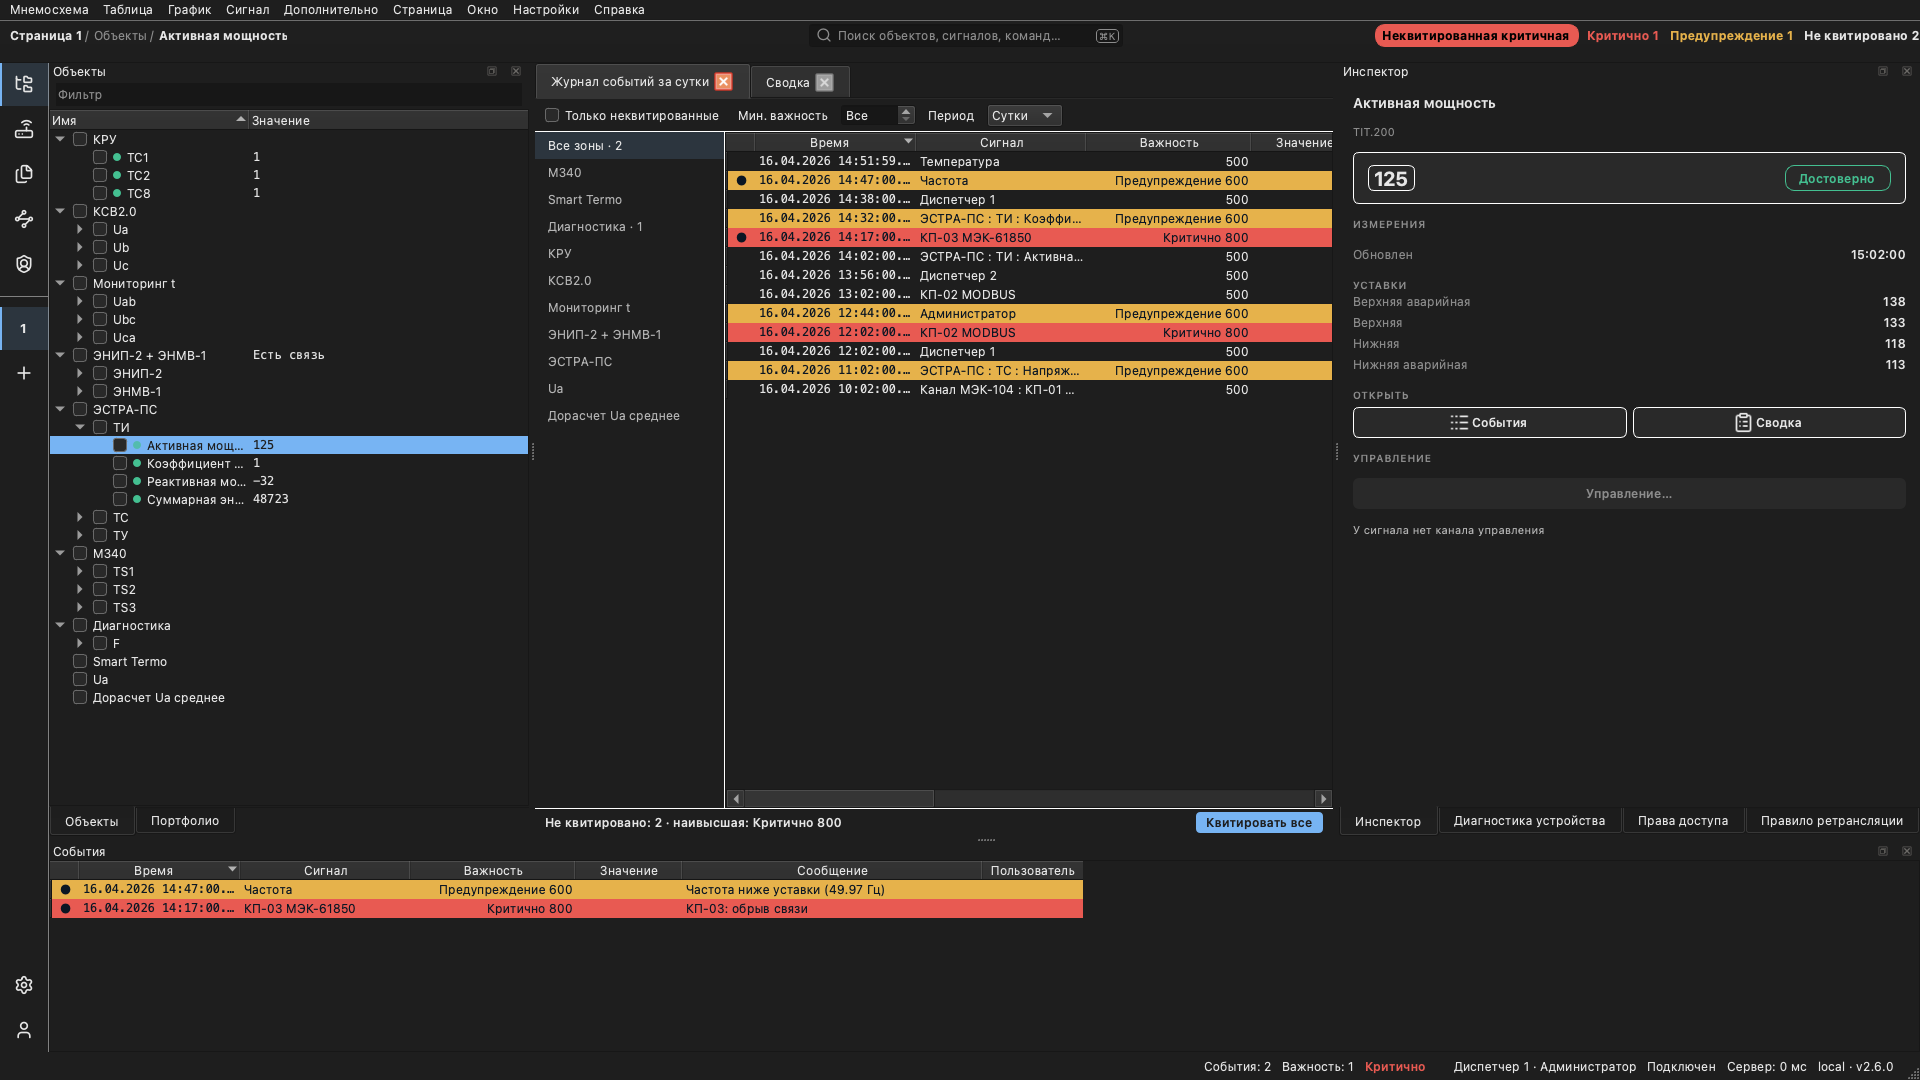
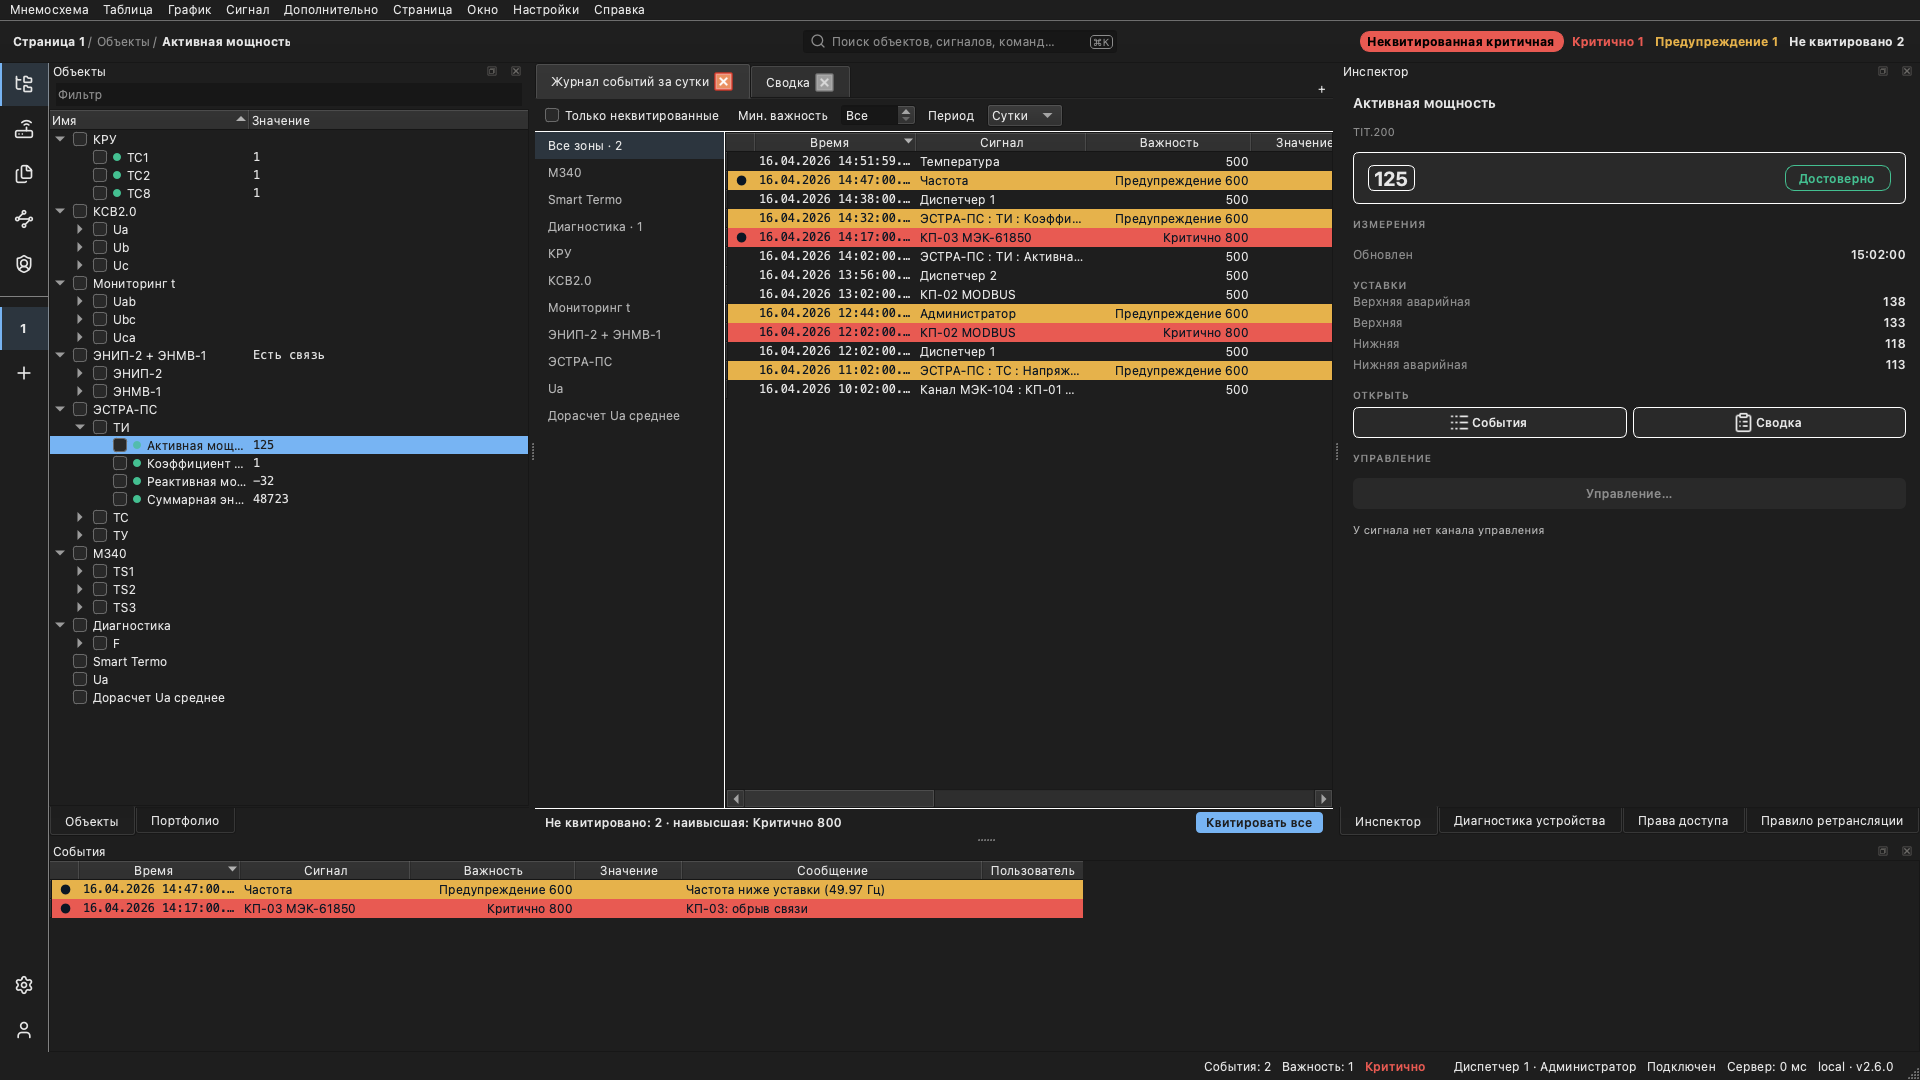
client: give the context bar a horizontal inset, so its text is off the window edge
Reported from the running client: the top bar looks like it has no left margin
and the text is hard to read. It did not have one.

All three slots were built `setContentsMargins(0, slot_padding, 0, slot_padding)`
-- padded vertically by cf2aca0ea, zeroed horizontally -- and a QToolBar
contributes only its style frame there. Measured on the 1920px
workbench-window.png render: the breadcrumb's first glyph began at x=4 and the
last alarm tile ended 7px from the other edge. This was the one row in the
window with no inset of its own; the menu bar gets one from its style (x=11)
and the status strip from its cells' margins (x=48). operator-shell.html gives
`.topbar` a `padding: 0 12px` for the same reason.

The inset comes from PM_LayoutLeftMargin / PM_LayoutRightMargin rather than a
literal, so it tracks DPI and the OS text-size setting, the same way the
vertical padding beside it takes PM_LayoutVerticalSpacing (client/CLAUDE.md,
"Size through QStyle::PixelMetric"). Measured after: 13px and 16px.

It goes on the two OUTER slots only. The centre slot is bounded by its
neighbours rather than by the window, so padding it would narrow the command
field to buy nothing.

The three slots gain object names, which is what lets the test find them.

Regression test on the existing live-widget-tree seam in fixture_assertions.cpp,
which is where the shell's non-pixel facts are asserted: check_screenshots.py
verifies existence, dimensions and distinctness and is structurally unable to
[…]

Changed region(s): [[0.6875, 0.0, 1.0, 0.0611], [0.4375, 0.0306, 0.5938, 0.0611], [0.0, 0.0306, 0.1562, 0.0611]]

diff --git a/main_window/main_window_qt.cpp b/main_window/main_window_qt.cpp
@@ -403,6 +403,24 @@ void MainWindow::CreateContextBar() {
   const int slot_padding = context_bar_->style()->pixelMetric(
       QStyle::PM_LayoutVerticalSpacing, nullptr, context_bar_);
 
+  // And horizontally, for the same reason and from the same place. A QToolBar
+  // contributes only its style frame on the left and right -- measured at 4px
+  // and 7px on macOS -- so with every slot zeroing its horizontal margins the
+  // breadcrumb's first glyph sat hard against the window edge and the last
+  // alarm tile against the other. `operator-shell.html` gives `.topbar` a
+  // `padding: 0 12px` for exactly this, and the two bars either side of this
+  // one already stand off the edge (the menu bar by its style, the status strip
+  // by its cells' own margins), so the context bar was the one row in the
+  // window whose text started at x=4.
+  //
+  // The inset goes on the two OUTER slots only. The centre slot is bounded by
+  // its neighbours rather than by the window, and padding it would narrow the
+  // command field for no reason.
+  const int bar_margin_left = context_bar_->style()->pixelMetric(
+      QStyle::PM_LayoutLeftMargin, nullptr, context_bar_);
+  const int bar_margin_right = context_bar_->style()->pixelMetric(
+      QStyle::PM_LayoutRightMargin, nullptr, context_bar_);
+
   // Three slots, as `operator-shell.html` lays the bar out: breadcrumb left,
   // command field centre, alarm state right. Each side is a container of its
   // own rather than "content plus a spacer" — the spacers this replaced sat
@@ -416,8 +434,10 @@ void MainWindow::CreateContextBar() {
   // own idiom (equal `1fr` grid columns) and appearance is the platform's here
   // — see client/CLAUDE.md, "the mockups are not a visual target".
   auto* left_slot = new QWidget(context_bar_);
+  left_slot->setObjectName(QStringLiteral("contextBarLeftSlot"));
   auto* left_layout = new QHBoxLayout(left_slot);
-  left_layout->setContentsMargins(0, slot_padding, 0, slot_padding);
+  left_layout->setContentsMargins(bar_margin_left, slot_padding, 0,
+                                  slot_padding);
   left_slot->setSizePolicy(QSizePolicy::Expanding, QSizePolicy::Preferred);
 
   // No brand lockup. A native application identifies itself in the window
@@ -448,6 +468,7 @@ void MainWindow::CreateContextBar() {
   // bar's top edge. Preferred (not Expanding) horizontally, so the two
   // Expanding side slots still centre it against the bar.
   auto* centre_slot = new QWidget(context_bar_);
+  centre_slot->setObjectName(QStringLiteral("contextBarCentreSlot"));
   auto* centre_layout = new QHBoxLayout(centre_slot);
   centre_layout->setContentsMargins(0, slot_padding, 0, slot_padding);
   centre_slot->setSizePolicy(QSizePolicy::Preferred, QSizePolicy::Preferred);
@@ -463,8 +484,10 @@ void MainWindow::CreateContextBar() {
   // the tiles, because a chip states that the operator must act now where a
   // tile states a count.
   auto* right_slot = new QWidget(context_bar_);
+  right_slot->setObjectName(QStringLiteral("contextBarRightSlot"));
   auto* right_layout = new QHBoxLayout(right_slot);
-  right_layout->setContentsMargins(0, slot_padding, 0, slot_padding);
+  right_layout->setContentsMargins(0, slot_padding, bar_margin_right,
+                                   slot_padding);
   right_slot->setSizePolicy(QSizePolicy::Expanding, QSizePolicy::Preferred);
   right_layout->addStretch();
 

diff --git a/tools/screenshot_generator/fixture_assertions.cpp b/tools/screenshot_generator/fixture_assertions.cpp
@@ -41,8 +41,11 @@
 
 #include <QApplication>
 #include <QLabel>
+#include <QLayout>
 #include <QStatusBar>
 #include <QString>
+#include <QToolBar>
+#include <QWidget>
 
 #include <gmock/gmock.h>
 #include <gtest/gtest.h>
@@ -117,6 +120,66 @@ TEST_F(ScreenshotGenerator, StatusBarNamesTheSignedInUser) {
   }
   EXPECT_TRUE(found) << "no status-bar pane names the signed-in user "
                      << expected_user.toStdString();
+
+  MainWindow::SetHideForTesting(true);
+}
+
+// The context bar's outer content must stand off the window edge.
+//
+// A QToolBar contributes only its style frame horizontally -- 4px on the left
+// and 7px on the right, measured on macOS -- and all three slots zeroed their
+// horizontal margins, so the breadcrumb's first glyph started at x=4 and the
+// last alarm tile ended 7px from the other edge. Every other row in the window
+// stands off it: the menu bar by its own style, the status strip by its cells'
+// margins. `operator-shell.html` gives `.topbar` a `padding: 0 12px`.
+//
+// Asserted on the live widget tree rather than on pixels, for the same reason
+// the test above is: `check_screenshots.py` verifies existence, dimensions and
+// distinctness and is structurally unable to see where the ink starts. The
+// assertion is "more than the bare frame", not an exact figure -- the inset is
+// a style metric, so it moves with the platform, the DPI and the OS text size,
+// and pinning a number here would make this test a machine's rather than a
+// rule's.
+TEST_F(ScreenshotGenerator, ContextBarKeepsItsContentOffTheWindowEdge) {
+  MainWindow::SetHideForTesting(false);
+
+  {
+    Profile profile;
+    Page page;
+    page.AddWindow(WindowDefinition{"Struct"});
+    profile.AddPage(page);
+    profile.Save();
+  }
+
+  WaitForAwaitable(executor_, app_.Start());
+  ASSERT_TRUE(WaitForPendingNodeLoads(executor_, app_.node_service()));
+
+  QMainWindow* qmain = ShowMainWindowForMenuCapture(app_);
+  ASSERT_NE(qmain, nullptr);
+
+  auto* context_bar = qmain->findChild<QToolBar*>(QStringLiteral("ContextBar"));
+  ASSERT_NE(context_bar, nullptr);
+
+  auto* left_slot =
+      context_bar->findChild<QWidget*>(QStringLiteral("contextBarLeftSlot"));
+  auto* right_slot =
+      context_bar->findChild<QWidget*>(QStringLiteral("contextBarRightSlot"));
+  auto* centre_slot =
+      context_bar->findChild<QWidget*>(QStringLiteral("contextBarCentreSlot"));
+  ASSERT_NE(left_slot, nullptr);
+  ASSERT_NE(right_slot, nullptr);
+  ASSERT_NE(centre_slot, nullptr);
+
+  EXPECT_GT(left_slot->layout()->contentsMargins().left(), 0)
+      << "the breadcrumb sits against the window's left edge";
+  EXPECT_GT(right_slot->layout()->contentsMargins().right(), 0)
+      << "the alarm cluster sits against the window's right edge";
+
+  // The inset is the BAR's, so it belongs to the two slots that touch the
+  // window. Padding the centre one would narrow the command field to buy
+  // nothing -- it is bounded by its neighbours.
+  EXPECT_EQ(centre_slot->layout()->contentsMargins().left(), 0);
+  EXPECT_EQ(centre_slot->layout()->contentsMargins().right(), 0);
 
   MainWindow::SetHideForTesting(true);
 }
